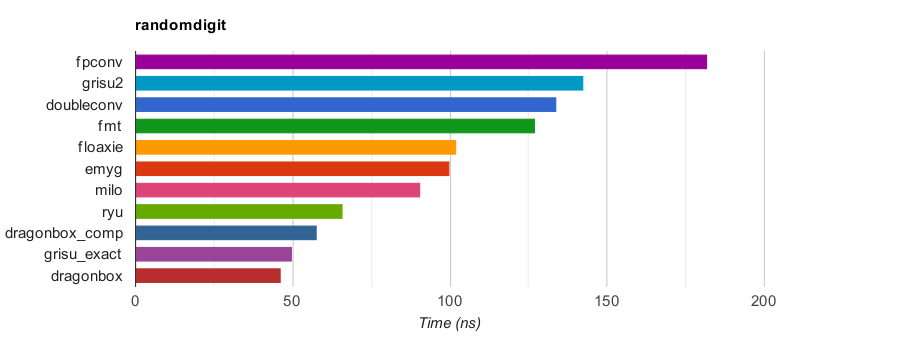
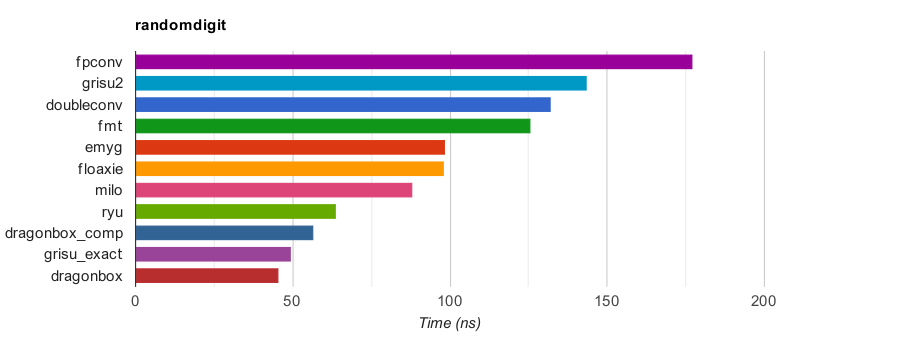
Add more safebuffers/forceinline; rerun milo's benchmark

diff --git a/dragonbox.h b/dragonbox.h
@@ -3183,7 +3183,7 @@ namespace jkj::dragonbox {
 	////////////////////////////////////////////////////////////////////////////////////////
 
 	template <class Float, class... Policies>
-	auto to_decimal(Float x, Policies... policies)
+	JKJ_SAFEBUFFERS JKJ_FORCEINLINE auto to_decimal(Float x, Policies... policies)
 	{
 		// Build policy holder type
 		using namespace detail::policy_impl;
